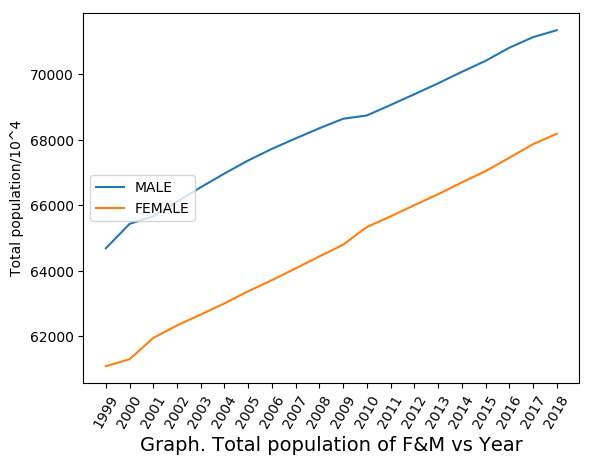
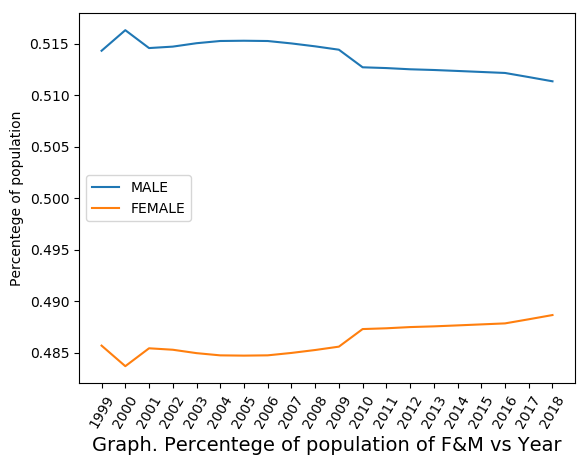
full edition

diff --git a/hw_graph.py b/hw_graph.py
@@ -5,18 +5,19 @@ import os
 import json
 class graphing():
     def __init__(self):
+        #存储数据库中数据的变量，每一个index代表一个数据表
         self.data = {'OVERALL':{},'FOOD':{},'CLOTHING':{},'ACCOMODATION':{},'TRANSPORTATION':{},'EDU_ENTERTAINMENT':{},
                      'TOTALPOP':{},'MALEPOP':{},'FEMALEPOP':{},
                      'POP_0to14':{},'POP_15to64':{},'POP_65plus':{},
                      'GDP':{},'ASCEND_PI':{},'ASCEND_SI':{},'ASCEND_TI':{}}
 
 
-    def spider_and_save(self):
+    def spider_and_save(self):#调用爬虫函数，建立数据库
         self.Spider = my_spider()
         self.Spider.main_func()#到此为止已经在数据库中存入所需数据
         pass
 
-    def load_database(self,database):
+    def load_database(self,database):#将数据库中数据录入变量中
         self.my_sq = sqlite3.connect(database)
         self.cursor = self.my_sq.cursor()
         for self.tag in self.data:
@@ -24,7 +25,7 @@ class graphing():
             for self.item in self.items:
                 self.data[self.tag][str(self.item[0])] = self.item[1]
 
-    def create_axis(self,tag):
+    def create_axis(self,tag):#基于前述的数据字典，将所有数据提取出来，生成numpy需要的array类型
         value = []
         year = []
         for i, item in enumerate(self.data[tag]):
@@ -47,24 +48,48 @@ class graphing():
         plt.show()
 
         # 各年龄段占比变化图
-        x, y1 = self.create_axis('FOOD')  # 长度跟其他三个不一样
+        x, y0 = self.create_axis('OVERALL')
+        x, y1 = self.create_axis('FOOD')  # 长度跟其他三个不一样！需要截取
         x, y2 = self.create_axis('CLOTHING')
         x, y3 = self.create_axis('ACCOMODATION')
         x, y4 = self.create_axis('TRANSPORTATION')
-        plt.plot(x, y1, label='Food')
-        plt.plot(x, y2, label='Clothing')
-        plt.plot(x, y3, label='Accomodation')
-        plt.plot(x, y4, label='Transportation')
+        plt.plot(x, y1/y0, label='Food')
+        plt.plot(x, y2/y0, label='Clothing')
+        plt.plot(x, y3/y0, label='Accomodation')
+        plt.plot(x, y4/y0, label='Transportation')
         plt.xticks(np.arange(1999, 2013, 1), rotation=60)
         plt.xlabel('Graph. Average cost in four main aspects in rural area vs Year', fontsize=14)
-        plt.ylabel('Cost/yuan',fontsize=12)
-        plt.legend(loc='upper left')
+        plt.ylabel('Percentege for several kinds of cost',fontsize=12)
+        plt.legend(loc='center left')
         plt.savefig('fig8.png', bbox_inches='tight')
         plt.show()
 
+    def graph1(self):
+        # 总人口条形图
+        x,y = self.create_axis('TOTALPOP')
+        plt.bar(x,y,align='edge',width=0.5,color='darkorange')
+        plt.xticks(np.arange(1999,2019,1),rotation=60)
+        plt.yticks(np.arange(0,160000,20000))
+        plt.xlabel('Graph. Total population vs Year',fontsize=14)
+        plt.ylabel('Total population/10^4')
+        plt.savefig('fig1.png',bbox_inches = 'tight')
+        plt.show()
+
+        #男女性总人口条形图
+        x, y1 = self.create_axis('MALEPOP')
+        x, y2 = self.create_axis('FEMALEPOP')
+        plt.plot(x, y1/(y1 + y2),label='MALE')
+        plt.plot(x, y2/(y1 + y2), label='FEMALE')
+        plt.xticks(np.arange(1999,2019,1),rotation=60)
+        plt.xlabel('Graph. Percentege of population of F&M vs Year', fontsize=14)
+        plt.ylabel('Percentege of population')
+        plt.legend(loc='center left')
+        plt.savefig('fig2.png', bbox_inches='tight')
+        plt.show()
 
 
     def graph2(self):
+        #提取出所需的几个16年数据
         num0 = self.data['TOTALPOP']['2016']
         num1 = self.data['POP_0to14']['2016']
         num2 = self.data['POP_15to64']['2016']
@@ -103,7 +128,7 @@ class graphing():
         plt.plot(x, y, label='GDP')
         plt.xticks(np.arange(1999, 2019, 1), rotation=60)
         plt.xlabel('Graph. GDP vs Year', fontsize=14)
-        plt.ylabel('GDP/10^8')
+        plt.ylabel('GDP/10^8yuan')
         plt.legend(loc='center left')
         plt.savefig('fig5.png', bbox_inches='tight')
         plt.show()
@@ -123,35 +148,13 @@ class graphing():
         plt.savefig('fig6.png', bbox_inches='tight')
         plt.show()
 
-    def graph1(self):
-        # 总人口条形图
-        x,y = self.create_axis('TOTALPOP')
-        plt.bar(x,y,align='edge',width=0.4,color='gold',edgecolor='mediumblue',lw=3)
-        plt.xticks(np.arange(1999,2019,1),rotation=60)
-        plt.yticks(np.arange(0,140000,5000))
-        plt.xlabel('Graph. Total population vs Year',fontsize=14)
-        plt.ylabel('Total population/10^4')
-        plt.savefig('fig1.png',bbox_inches = 'tight')
-        plt.show()
-
-        #男女性总人口条形图
-        x, y1 = self.create_axis('MALEPOP')
-        x, y2 = self.create_axis('FEMALEPOP')
-        plt.plot(x, y1,label='MALE')
-        plt.plot(x, y2, label='FEMALE')
-        plt.xticks(np.arange(1999,2019,1),rotation=60)
-        plt.xlabel('Graph. Total population of F&M vs Year', fontsize=14)
-        plt.ylabel('Total population/10^4')
-        plt.legend(loc='center left')
-        plt.savefig('fig2.png', bbox_inches='tight')
-        plt.show()
 
 
 
 
 if __name__ =="__main__":
     Graph = graphing()
-    if not os.path.exists('myjson.json'):
+    if not os.path.exists('myjson.json'):#测试阶段的函数，用json文件临时存储变量信息；避免每次都要运行爬虫
         Graph.spider_and_save()
         Graph.load_database('mydb.db')
         with open('myjson.json','w') as load_f:
@@ -163,8 +166,6 @@ if __name__ =="__main__":
             Graph.data = json.load(load_f)
         load_f.close()
 
-    # for item in Graph.data:
-    #     print(Graph.data[item])
     Graph.graph0()
     Graph.graph1()
     Graph.graph2()

diff --git a/hw_spider.py b/hw_spider.py
@@ -9,8 +9,7 @@ class my_spider():
     def __init__(self):
         pass
 
-    def html_process(self,html_text,database,tablename,maindata_type,line,end_year):
-        '''line从0开始'''
+    def html_process(self,html_text,database,tablename,maindata_type,line,end_year):#html文件处理函数，获取数据信息并建立数据表
         # 连接数据库
         self.my_sq = sqlite3.connect(database)
         self.cursor = self.my_sq.cursor()
@@ -21,8 +20,7 @@ class my_spider():
         # 获得的list中的成员就是bs4.element.Tag类型
         self.index_row = self.bs.select('table.public_table.table_main thead tr')  # 虽然只有一行，但仍然装在list里面
 
-        #print('b1')
-        # 写入数据库
+        # 建立数据库
         try:
             self.cursor.execute('''DROP TABLE if exists %s'''%tablename)
             self.cursor.execute('''CREATE TABLE %s
@@ -31,23 +29,23 @@ class my_spider():
                                         '''%(tablename,maindata_type))
         except:
             pass
-        #print('b2')
+
+        #写入数据
         for self.i, self.td in enumerate(self.rows[line].contents[1:]):  # 遍历第一行数据，跳过第一行第一个表头数据
-            #print('b')
             self.year = int(self.index_row[0].contents[self.i + 1].get_text()[0:4])  # 一个年份数据
             if self.year>end_year:#有必要的话，跳过前面的数据（如跳过2018年）
                 continue
-            if maindata_type=='int':
-                self.value = int(self.td.get_text())  # 一个整型数据
+            if maindata_type=='int':#关键数据是整数，比如人口
+                self.value = int(self.td.get_text())
                 self.cursor.execute('''INSERT INTO %s(YEAR, VALUE) VALUES('%d','%d')''' % (tablename,self.year, self.value))
-            else:
-                self.value = float(self.td.get_text())  # 一个浮点型数据
+            else:                   #关键数据是浮点型，比如GDP
+                self.value = float(self.td.get_text())
                 self.cursor.execute(
                     '''INSERT INTO %s(YEAR, VALUE) VALUES('%d','%f')''' % (tablename, self.year, self.value))
         self.my_sq.commit()
         self.my_sq.close()
 
-    def table_print(self,tablename):
+    def table_print(self,tablename):#打印数据表
         self.my_sq = sqlite3.connect('mydb.db')
         self.cursor = self.my_sq.cursor()
         self.items = self.cursor.execute("SELECT YEAR,VALUE from %s"%tablename)
@@ -56,7 +54,7 @@ class my_spider():
             print("YEAR: ",self.item[0],type(self.item[0]))
             print("VALUE: ",self.item[1],type(self.item[1]),'\n')
 
-    def task0(self,html_text):
+    def task0(self,html_text):#获得及处理农村消费情况信息
         self.html_process(html_text, 'mydb.db', 'OVERALL', 'float', 0, 2012)
         self.html_process(html_text, 'mydb.db', 'FOOD', 'float', 1, 2012)
         self.html_process(html_text, 'mydb.db', 'CLOTHING', 'float', 2, 2012)
@@ -64,18 +62,17 @@ class my_spider():
         self.html_process(html_text, 'mydb.db', 'TRANSPORTATION', 'float', 5, 2012)
         self.html_process(html_text, 'mydb.db', 'EDU_ENTERTAINMENT', 'float', 6, 2012)
 
-    def task1(self,html_text):#处理三个总人口数据
+    def task1(self,html_text):#获得及处理三个总人口数据
         self.html_process(html_text,'mydb.db','TOTALPOP','int',0,2018)
         self.html_process(html_text, 'mydb.db', 'MALEPOP', 'int', 1,2018)
         self.html_process(html_text, 'mydb.db', 'FEMALEPOP', 'int', 2,2018)
-        #self.table_print('TOTALPOP')
 
-    def task2(self,html_text):#处理年龄分布数据
+    def task2(self,html_text):#获得及处理年龄分布数据
         self.html_process(html_text, 'mydb.db', 'POP_0to14', 'int', 1,2017)
         self.html_process(html_text, 'mydb.db', 'POP_15to64', 'int', 2,2017)
         self.html_process(html_text, 'mydb.db', 'POP_65plus', 'int', 3,2017)
 
-    def task3(self,html_text):
+    def task3(self,html_text):#获得及处理GDP和三类产业数据
         self.html_process(html_text, 'mydb.db', 'GDP', 'float', 1, 2018)
         self.html_process(html_text, 'mydb.db', 'ASCEND_PI', 'float', 2, 2018)
         self.html_process(html_text, 'mydb.db', 'ASCEND_SI', 'float', 3, 2018)
@@ -83,7 +80,7 @@ class my_spider():
 
 
 
-    def spider_and_get_HTML(self,html_filename,branch1,branch2):
+    def spider_and_get_HTML(self,html_filename,branch1,branch2):#基于selenium模块，动态操作浏览器（执行鼠标点击操作等），并获得html文件
         if not os.path.exists('C:\\Users\Vincent Collins\\git_rep\\dataAnalysis\\%s'%html_filename):
             self.browser = webdriver.Chrome()  # 调用本地的Chrome浏览器
                                                #注意，这一行命令会打开浏览器！
@@ -105,7 +102,7 @@ class my_spider():
         self.myfile = open(html_filename,'r')
         return self.myfile.read()
 
-    def main_func(self):
+    def main_func(self):#总控函数
         self.html_text = self.spider_and_get_HTML('html0.txt', 11, 46)
         self.task0(self.html_text)
         self.html_text = self.spider_and_get_HTML('html1.txt',4,30)
